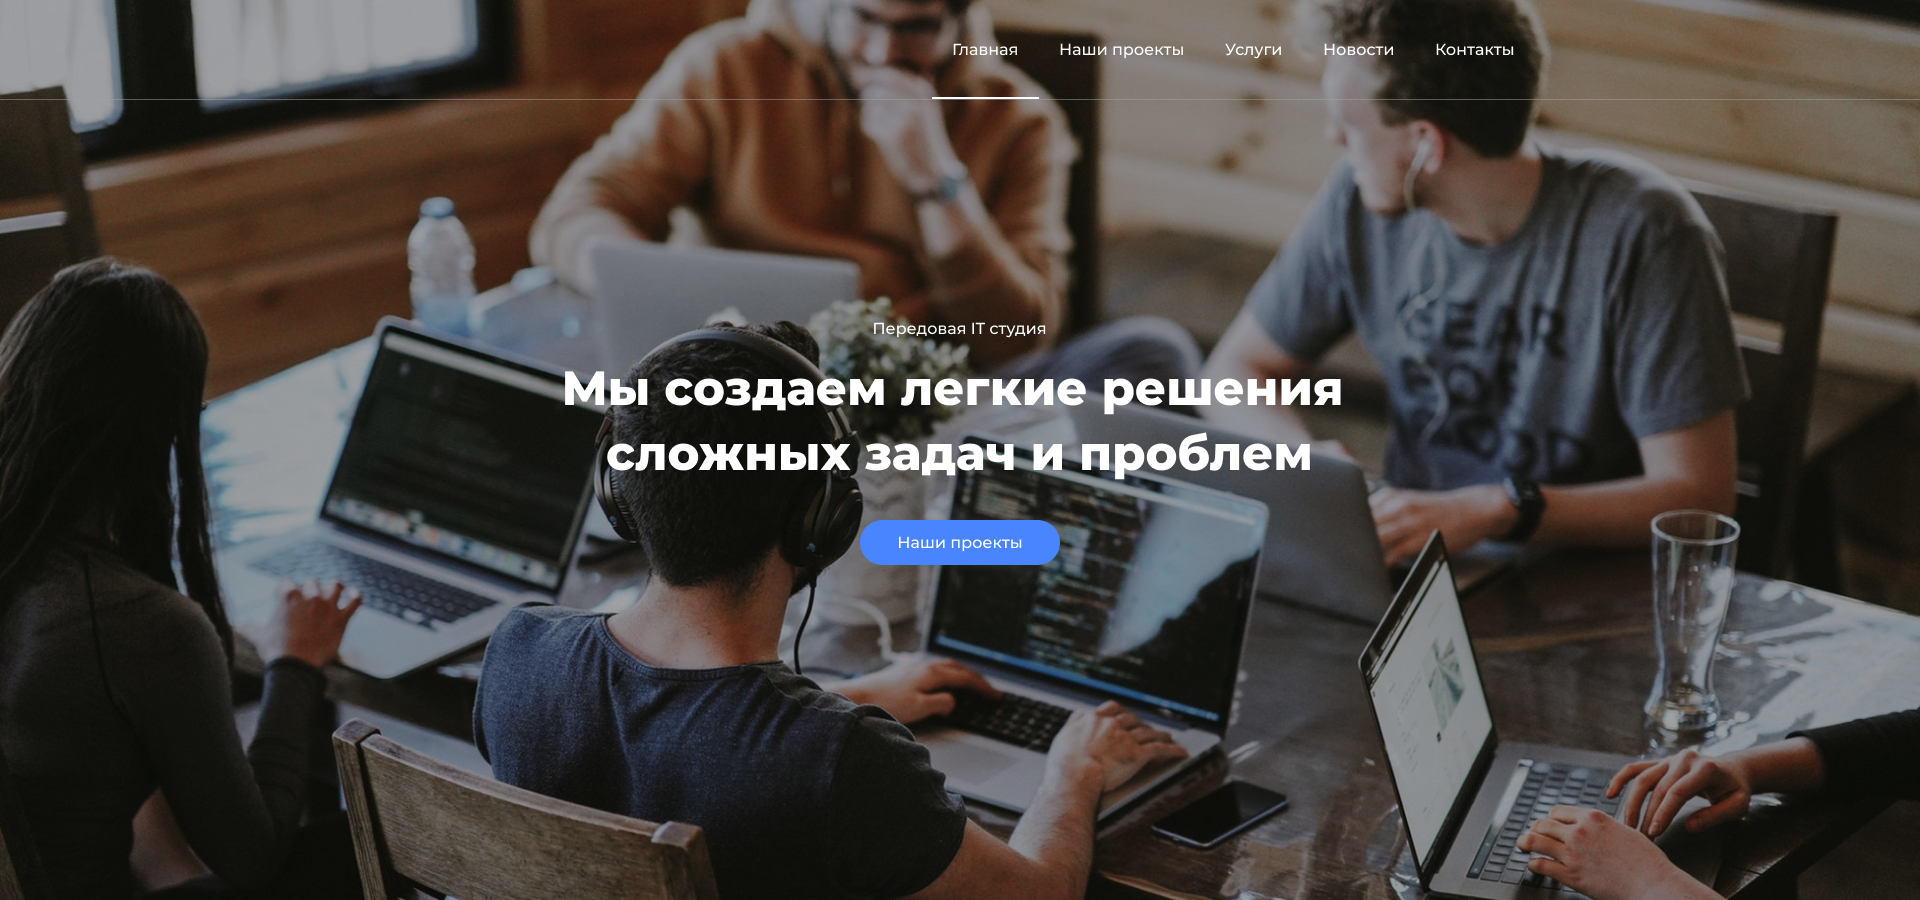
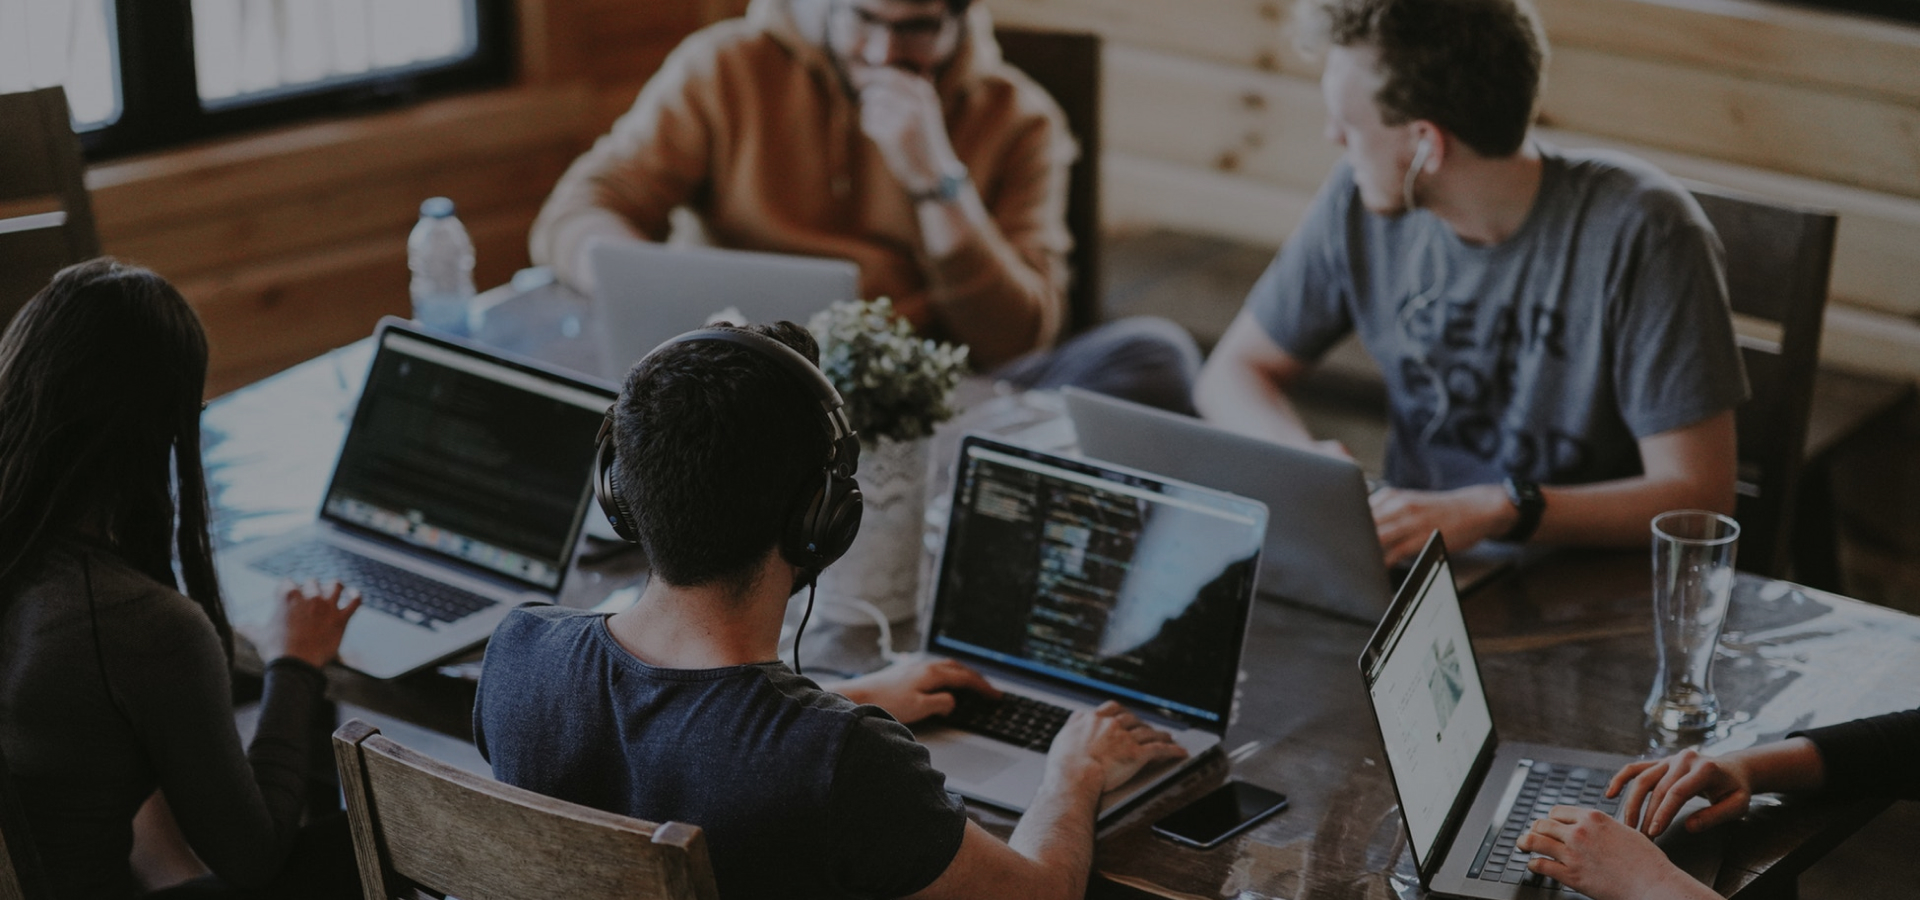
Create: header

diff --git a/css/style.css b/css/style.css
@@ -1,5 +1,6 @@
 header {
-  height: 299px;
+  width: 100%;
+  min-height: 900px;
   background-image: url(../img/first-screen.jpg);
 }
 

diff --git a/sass/blocks/_header.sass b/sass/blocks/_header.sass
@@ -1,4 +1,5 @@
 header 
-  height: 299px
+  width: 100%
+  min-height: 900px
   background-image: url(../img/first-screen.jpg)
   
